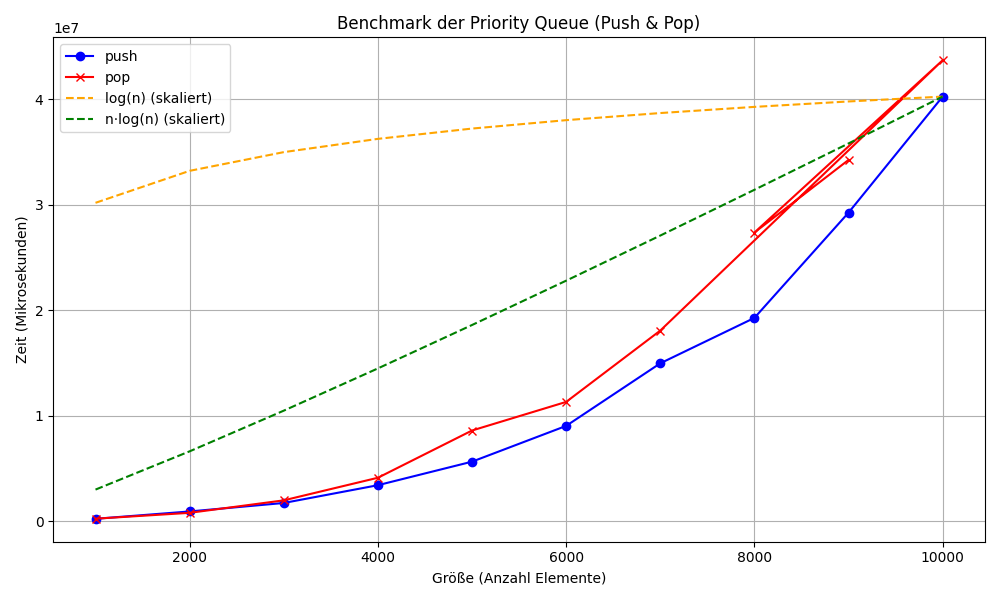
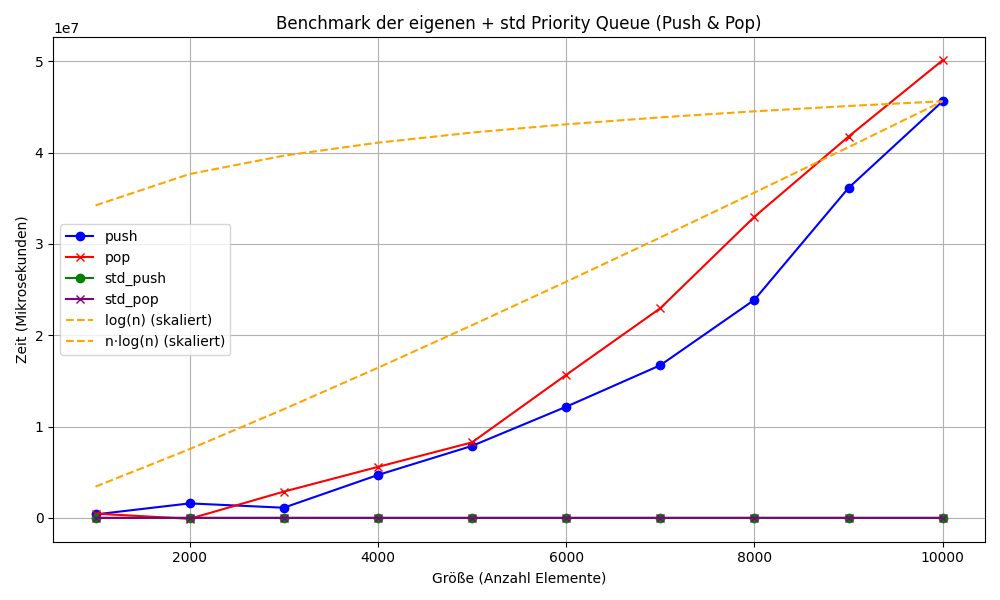
Added std_priority_queue to benchmarks

diff --git a/benchmarks/sequential/priority_queue_benchmark.cpp b/benchmarks/sequential/priority_queue_benchmark.cpp
@@ -1,6 +1,7 @@
 #include <vector>
 #include <random>
 #include <thread>
+#include <queue>
 
 #include "sequential/priority_queue.hpp"
 #include "benchmark.hpp"
@@ -23,22 +24,36 @@ void benchmark_pq_push(int size) {
       pq.push(v);
     }
   }, "priority_queue", "push", size);
+  containers::benchmark::print_benchmark([&](){
+    std::priority_queue<int> stdpq;
+    for (int v : data) {
+      stdpq.push(v);
+    }
+  }, "std_priority_queue", "push", size);
 }
+
 
 void benchmark_pq_pop(int size) {
   // Initialize PQ with an amount of "size" values for testing
   std::vector<int> data(size);
   std::iota(data.begin(), data.end(), 0);
   containers::sequential::priority_queue<int> pq;
+  std::priority_queue<int> stdpq;
   for (int v : data) {
     pq.push(v);
+    stdpq.push(v);
   }
-  // Benchmark
+  // Benchmarks
   containers::benchmark::print_benchmark([&](){
     while (!pq.empty()) {
       pq.pop();
     }
   }, "priority_queue", "pop", size);
+  containers::benchmark::print_benchmark([&](){
+    while (!stdpq.empty()) {
+      stdpq.pop();
+    }
+  }, "std_priority_queue", "pop", size);
 }
 
 int main() {
